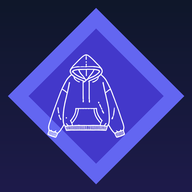
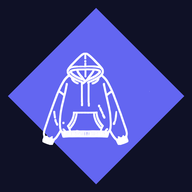
アイコンを、よりシンプルで釣り合いのよい形にする
要素を「紺の地・紫のひし形（面）・白い線のパーカー」の3つに絞り、グラデーション・二重のひし形・光をやめた。
パーカーは、ひし形の中で四隅の余白が均等になるよう大きさを決め、線を少し太くして、小さい大きさでも潰れにくくした。
キャッシュ用の印を ?v=4 に。

diff --git a/index.html b/index.html
@@ -8,7 +8,7 @@
     <meta name="robots" content="noindex, nofollow">
     <title>ARELM</title>
     <link rel="stylesheet" href="css/style.css">
-    <link rel="manifest" href="manifest.json?v=3">
+    <link rel="manifest" href="manifest.json?v=4">
     <meta name="theme-color" content="#0f172a">
 
     <!-- iOS（iPhone・iPad）でホーム画面に追加したときの設定 -->
@@ -16,9 +16,9 @@
     <meta name="apple-mobile-web-app-status-bar-style" content="black-translucent">
     <meta name="apple-mobile-web-app-title" content="ARELM">
     <!-- アイコンはMacのアプリと同じ絵、名前は「ARELM」に、全端末で揃える。?v= は、各端末が古いアイコンを使い続けないため -->
-    <link rel="apple-touch-icon" sizes="180x180" href="images/apple-touch-icon.png?v=3">
-    <link rel="apple-touch-icon" sizes="512x512" href="images/icon-512x512.png?v=3">
-    <link rel="icon" type="image/png" sizes="192x192" href="images/icon-any-192x192.png?v=3">
+    <link rel="apple-touch-icon" sizes="180x180" href="images/apple-touch-icon.png?v=4">
+    <link rel="apple-touch-icon" sizes="512x512" href="images/icon-512x512.png?v=4">
+    <link rel="icon" type="image/png" sizes="192x192" href="images/icon-any-192x192.png?v=4">
 </head>
 <body>
     <div id="login-screen" class="login-screen">
